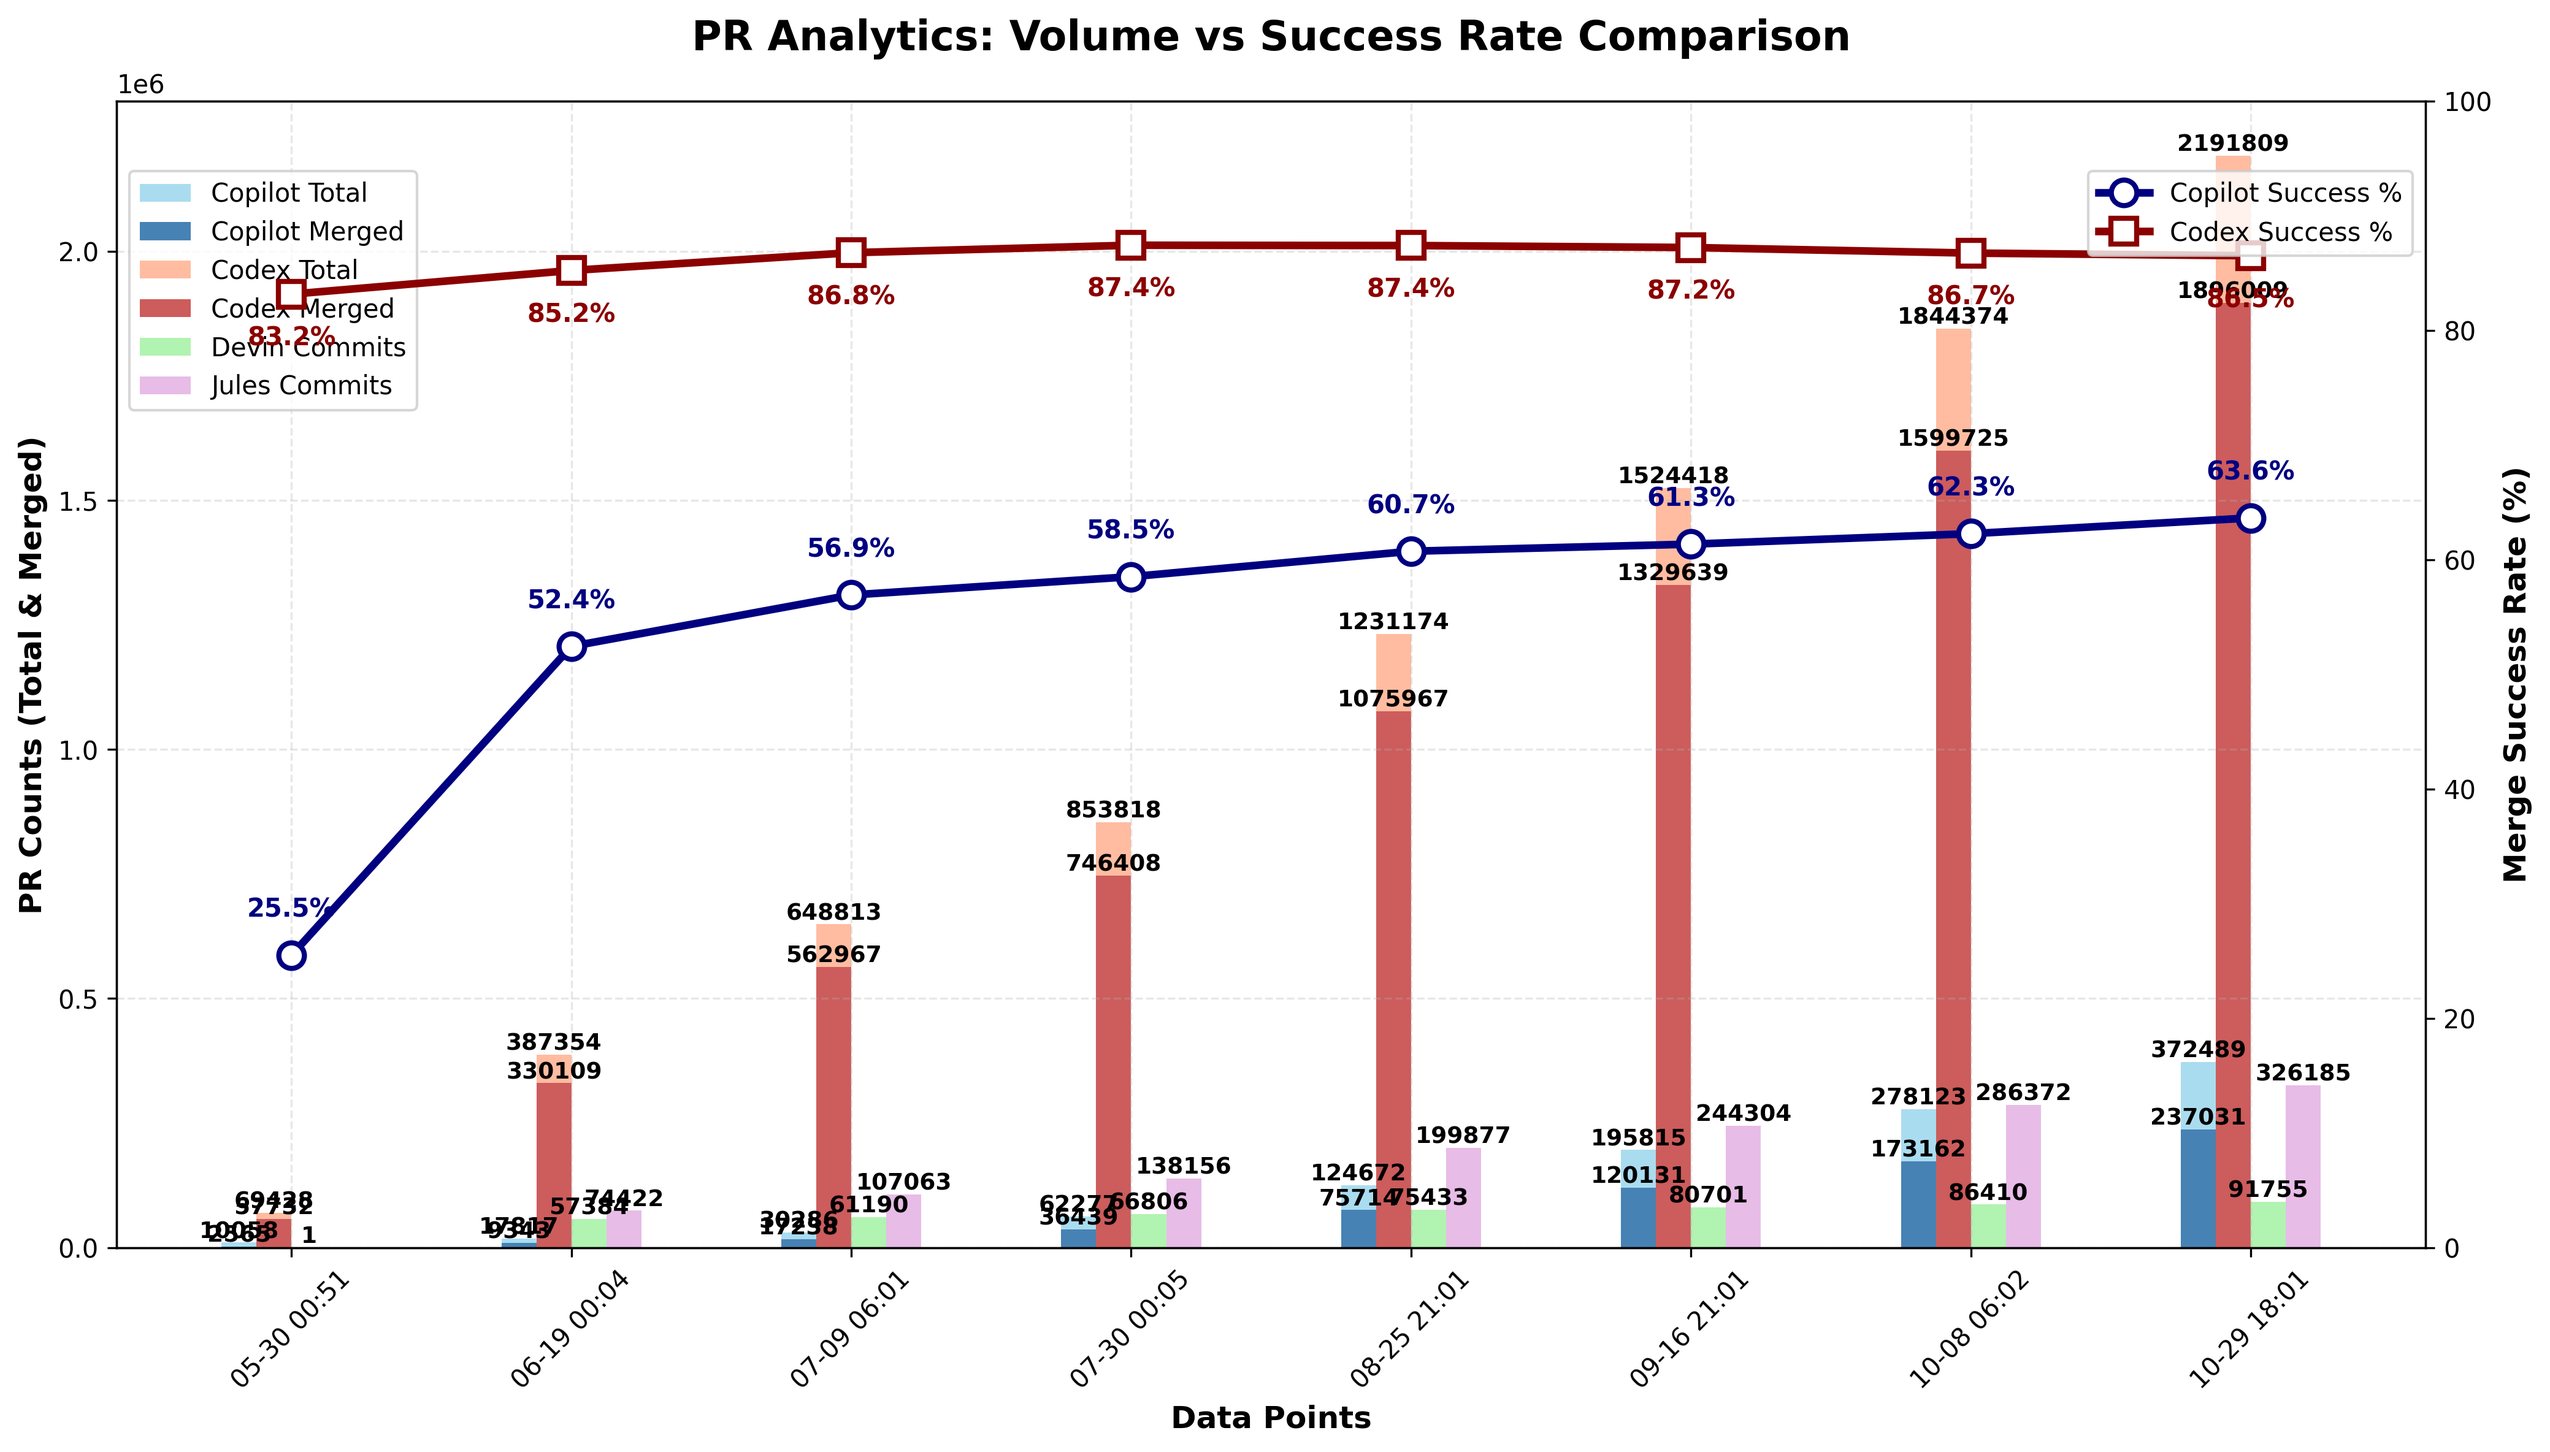
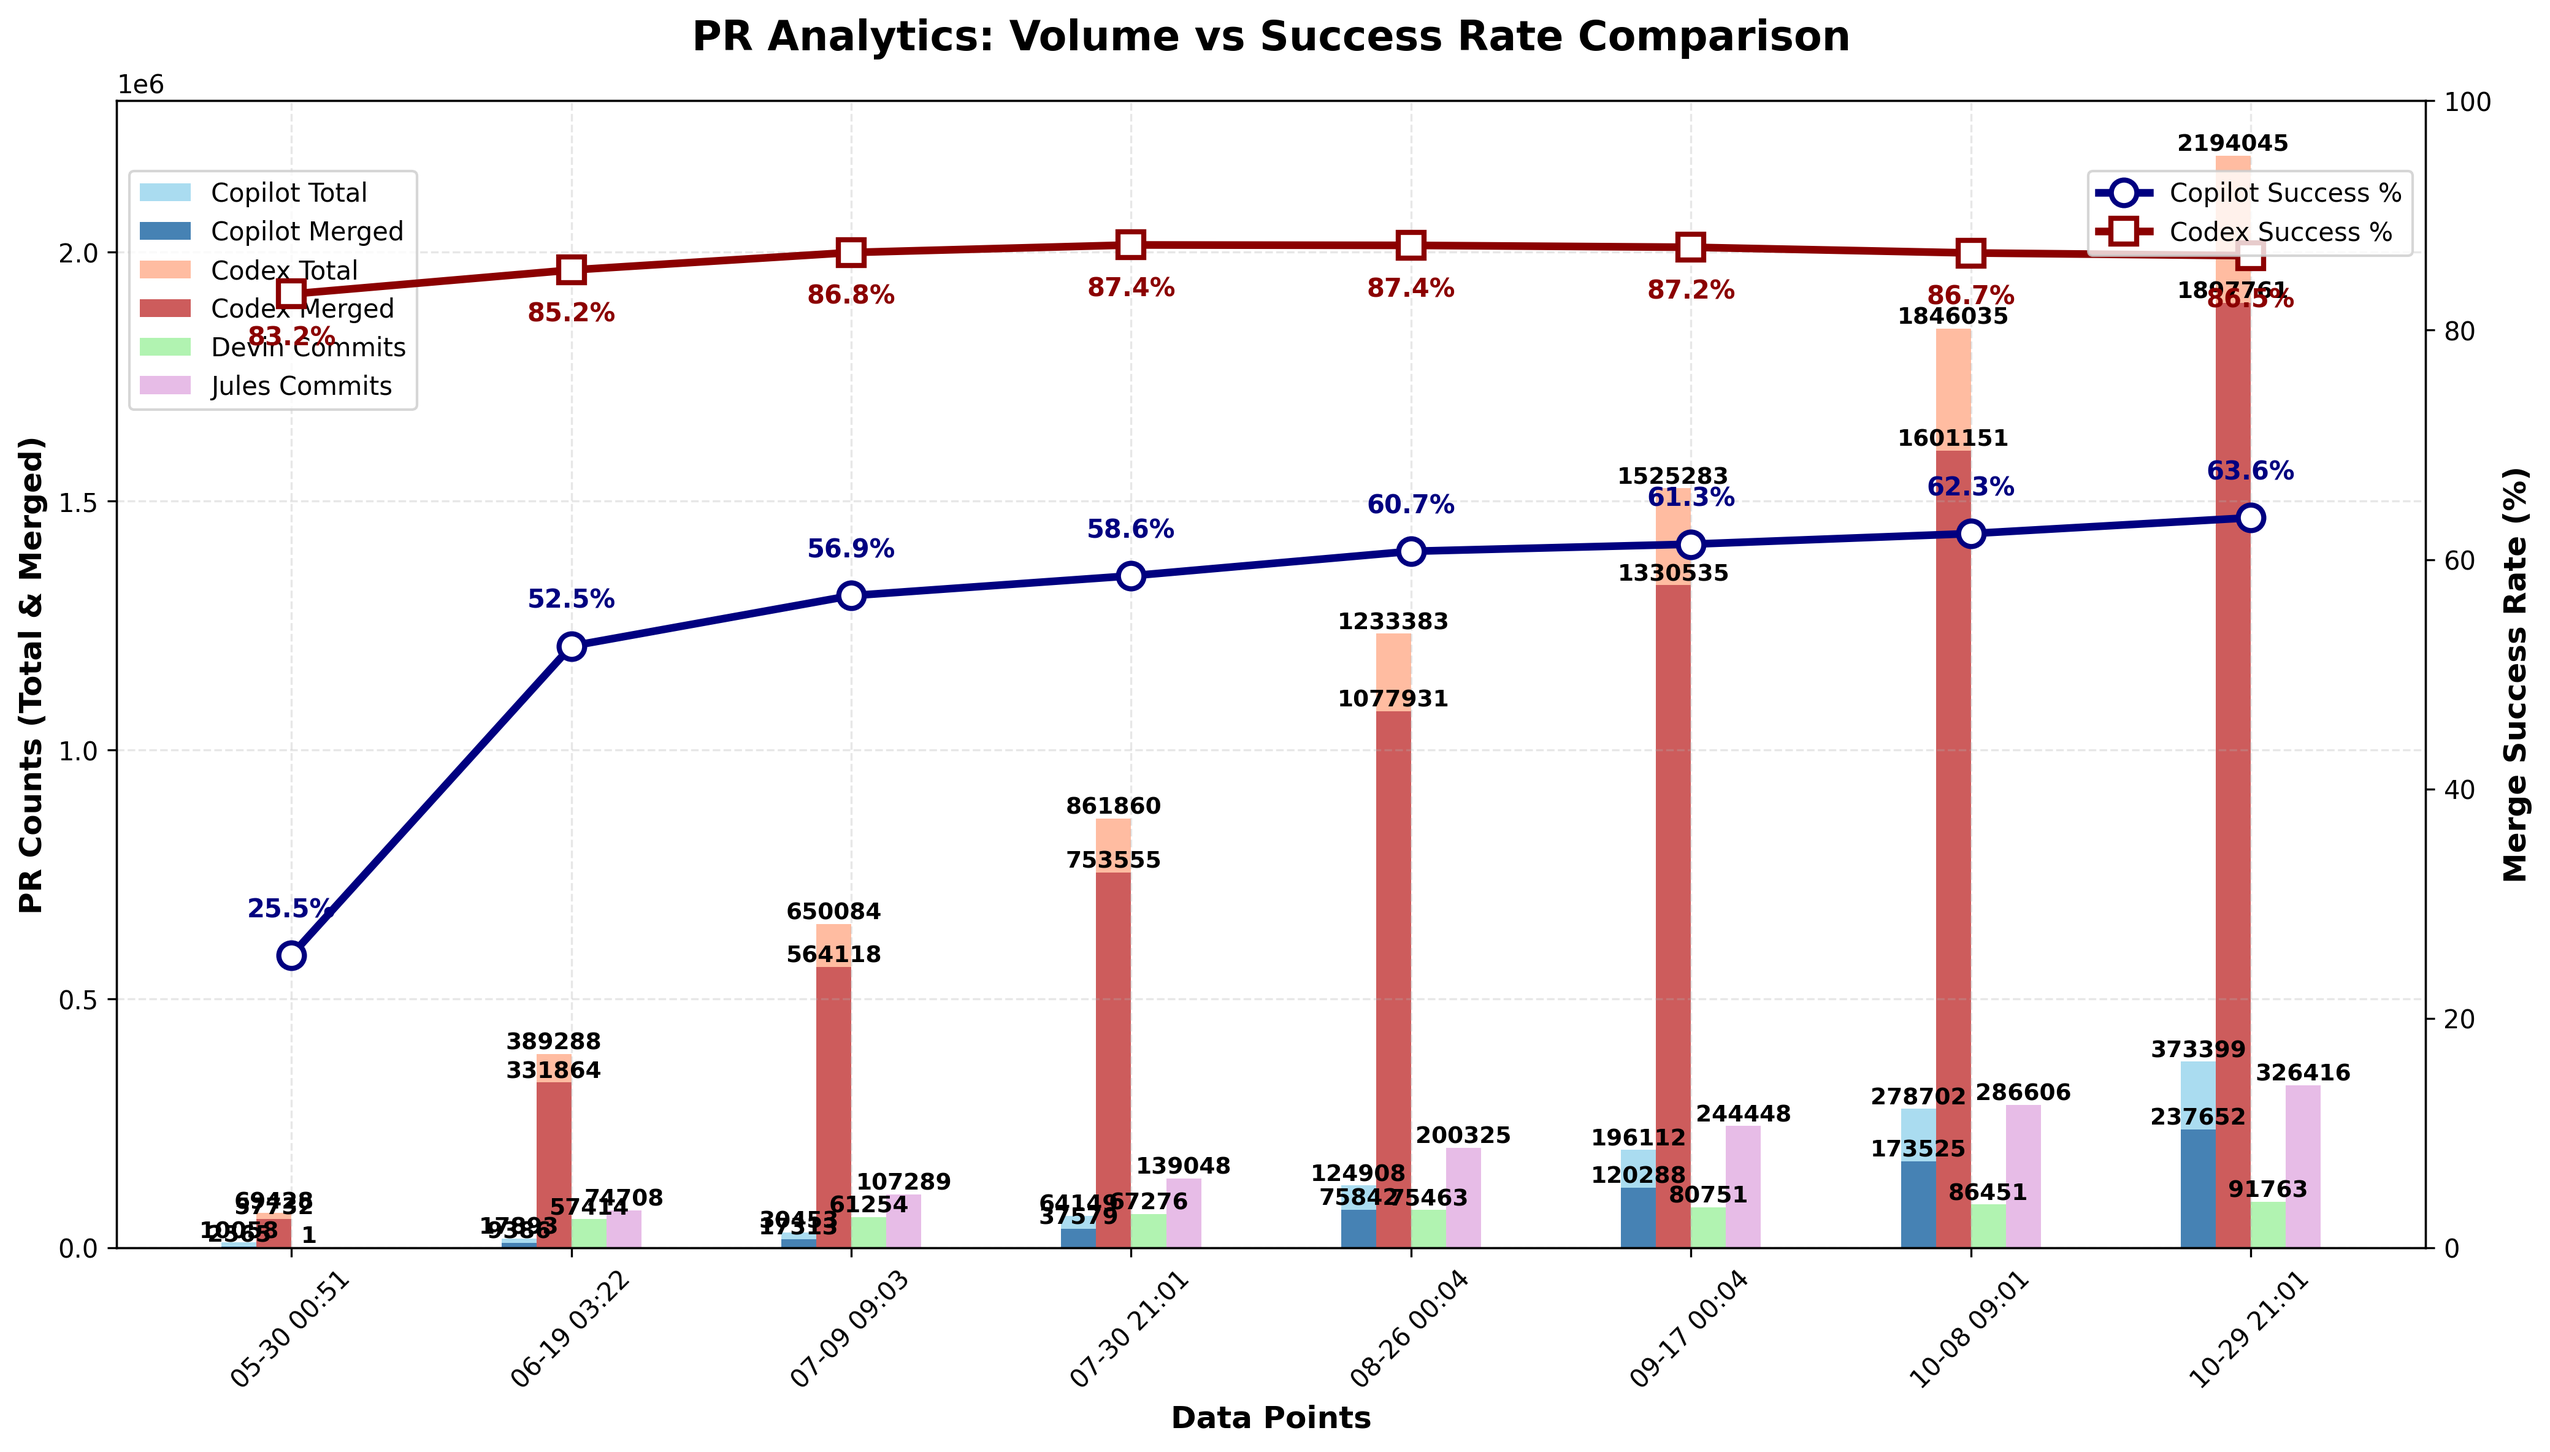
chore: update PR‑approval chart

diff --git a/docs/index.html b/docs/index.html
@@ -1174,6 +1174,7 @@
                         <td>N/A</td>
                         <td>N/A</td>
                         <td>N/A</td>
+                        <td>N/A</td>
                     </tr>
                     <tr>
                         <td>Codex</td>
@@ -2306,27 +2307,28 @@
                         <td>N/A</td>
                         <td>N/A</td>
                         <td>N/A</td>
+                        <td>N/A</td>
                     </tr>
                 <tr>
                         <td>Devin</td>
                         <td>N/A</td>
                         <td>N/A</td>
                         <td>N/A</td>
-                        <td>91,755</td>
+                        <td>91,763</td>
                     </tr>
                     <tr>
                         <td>Jules</td>
                         <td>N/A</td>
                         <td>N/A</td>
                         <td>N/A</td>
-                        <td>326,185</td>
+                        <td>326,416</td>
                     </tr>
                     </tbody>
             </table>
         </section>
 
         <footer>
-            <p>Last updated: <span id="last-updated">October 29, 2025 18:01 UTC</span></p>
+            <p>Last updated: <span id="last-updated">October 29, 2025 21:01 UTC</span></p>
             <p><a href="https://github.com/aavetis/ai-pr-watcher">View on GitHub</a></p>
         </footer>
     </div>

diff --git a/README.md b/README.md
@@ -19,7 +19,7 @@ Explore the GitHub search queries used:
 
 | Service | Total PRs | Merged PRs | Merge Rate | Total Commits |
 | ------- | --------- | ---------- | ---------- | ------------- |
-| Copilot | 372,489 | 237,031 | 63.63% | N/A           |
-| Codex   | 2,191,809 | 1,896,009 | 86.50% | N/A           |
-| Devin   | N/A       | N/A        | N/A        | 91,755 |
-| Jules   | N/A       | N/A        | N/A        | 326,185 |
+| Copilot | 373,399 | 237,652 | 63.65% | N/A           |
+| Codex   | 2,194,045 | 1,897,761 | 86.50% | N/A           |
+| Devin   | N/A       | N/A        | N/A        | 91,763 |
+| Jules   | N/A       | N/A        | N/A        | 326,416 |
